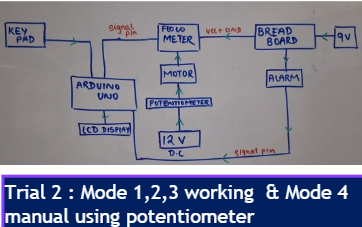
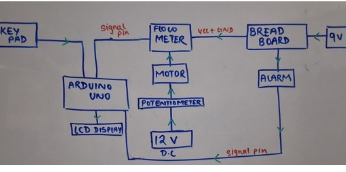
NIRI: use the PDF slide for the iterations, match the two block diagrams
The iterations picture was a 682px blur; the slide rendered from the PDF is
1800px and runs full width. The blue caption bar is cropped off trial 2 and both
diagrams now share the same proportions, rendering identically.

diff --git a/niri.html b/niri.html
@@ -69,7 +69,7 @@
 
 <div class="row row-2">
 <div class="cell" style="flex-grow:2.012"><a class="tile" href="niri/block-diagram-trial1.png"><img src="niri/block-diagram-trial1.png" alt="Hand-drawn block diagram linking keypad, Arduino Uno, breadboard, flow meter, valve, motor and 12 V supply"></a></div>
-<div class="cell" style="flex-grow:1.595"><a class="tile" href="niri/block-diagram-trial2.png"><img src="niri/block-diagram-trial2.png" alt="Hand-drawn block diagram for trial 2: keypad, Arduino Uno, LCD display, flow meter, motor, potentiometer, breadboard, alarm and a 9 V and 12 V supply"></a></div>
+<div class="cell" style="flex-grow:2.012"><a class="tile" href="niri/block-diagram-trial2.png"><img src="niri/block-diagram-trial2.png" alt="Hand-drawn block diagram for trial 2: keypad, Arduino Uno, LCD display, flow meter, motor, potentiometer, breadboard, alarm and a 9 V and 12 V supply"></a></div>
 </div>
 
 <div class="row row-3">
@@ -78,8 +78,8 @@
 <div class="cell" style="flex-grow:2.985"><a class="tile" href="niri/circuit-schematic-c.png"><img src="niri/circuit-schematic-c.png" alt="Circuit schematic with two display modules added alongside the microcontroller and servo"></a></div>
 </div>
 
-<div class="row row-2" style="max-width:520px">
-<div class="cell" style="flex-grow:2.042"><a class="tile" href="niri/iterations-01-05.png"><img src="niri/iterations-01-05.png" alt="Five-stage table of NIRI iterations from proof of concept to five modes and ball valve"></a></div>
+<div class="row row-2">
+<div class="cell" style="flex-grow:1.777"><a class="tile" href="niri/iterations-01-05.png"><img src="niri/iterations-01-05.png" alt="Solution development process: five prototype iterations from proof of concept, through solenoid flow control, a compact circuit with a fourth mode, and the transformed device, to five modes and a ball valve"></a></div>
 </div>
 
 <h3>2. Deploying and Piloting</h3>
